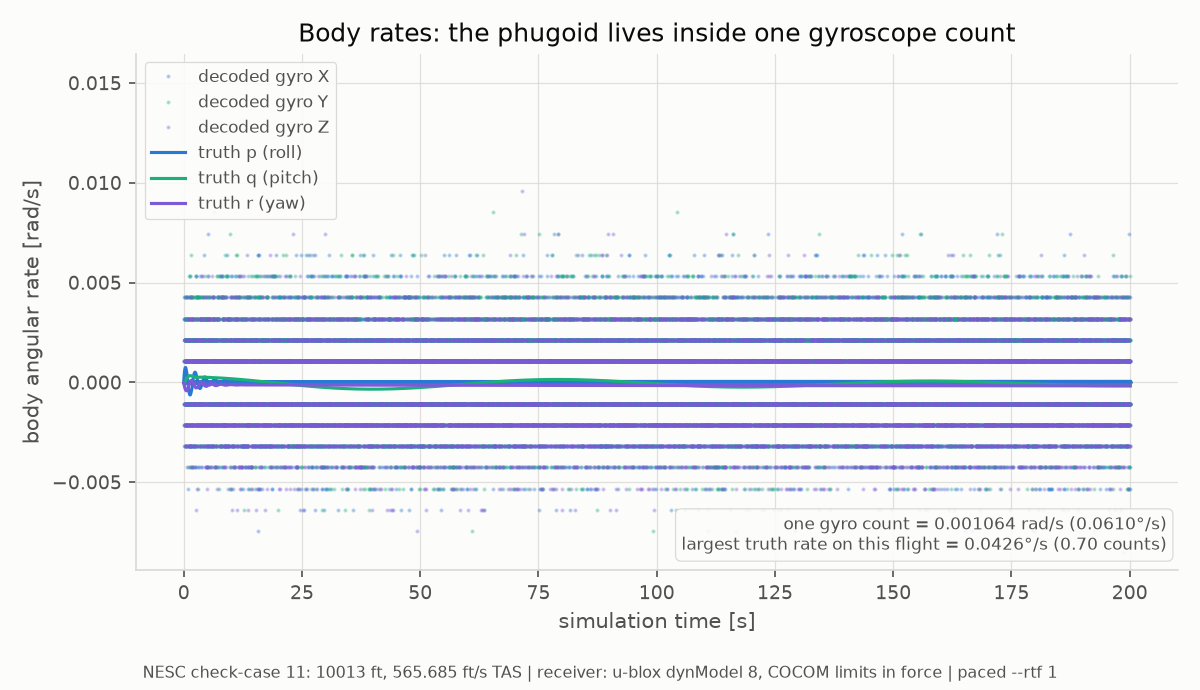
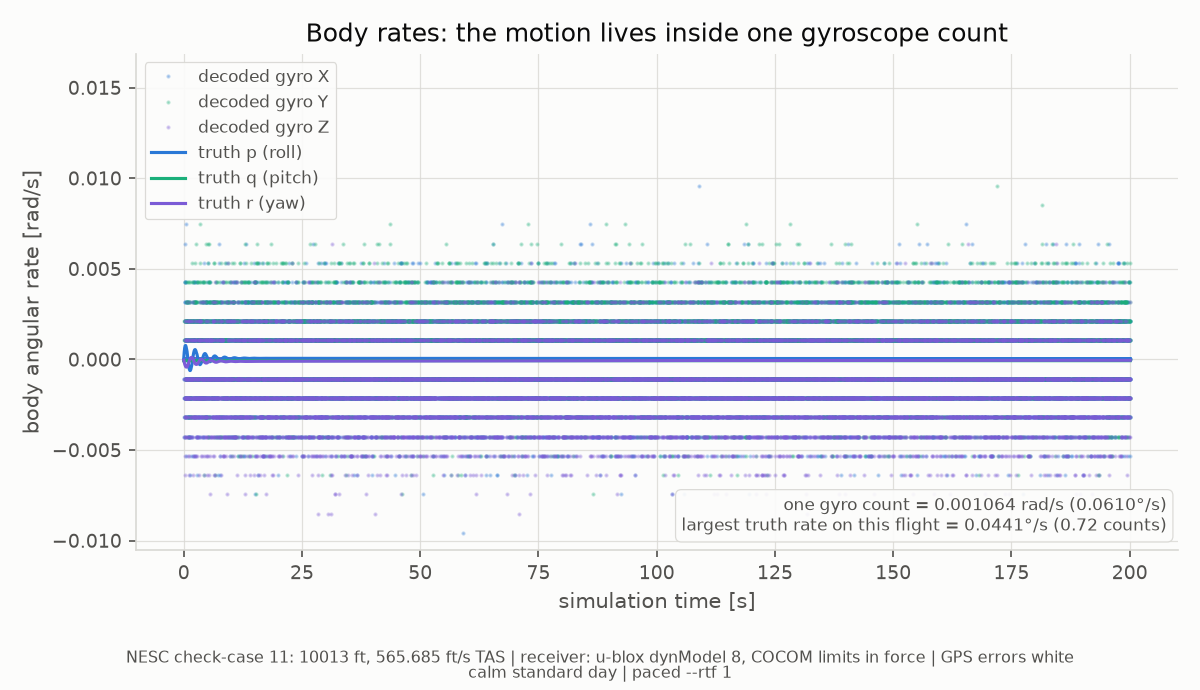
doc: the environment on the F-16 page, and every error term in sensor_models
Three figures for what Aetherion 0.16.0's environment changes, all from seeded
runs so they are comparable: with --seed the calm and turbulent runs carry the
same barometer turn-on bias (+3.58 m on both), and the difference between
their figures is the air rather than the draw. That comparability is what the
sensor seeds were for.

  turbulence W20 = 8 m/s   peak roll rate 0.7 gyro counts -> 47.4
  ISA + 20 K               barometer 195 m below truth, GNSS and radar on it
  10 m/s crosswind         GNSS course 2.28 deg off yaw, against 0.02 in calm

The first overturns this page's own headline finding -- "a filter cannot
integrate these rates, the signal is below the sensor's resolution" -- which
was always a statement about the air rather than about the part.

One correction to a figure already published. The magnetometer annotation
predicted the heading error from the hard iron's *magnitude*, which is only an
upper bound: heading comes from atan2(-Yh, Xh), so the offset's direction
relative to the field matters, and an offset lying along the field costs
almost no heading. It matched the draw this page shipped (5.5 predicted, 5.3
observed) and would have been badly wrong on another (2.9 against 0.24). It is
now first order in the components: 5.2 and 0.24 respectively.

sensor_models.rst gains the seeds and what they do and do not buy, the IMU's
bias walk (and why the increment is sigma sqrt(dt)), its scale factor and
[…]

diff --git a/examples/f16_trim_ecos/plot_results.py b/examples/f16_trim_ecos/plot_results.py
@@ -812,16 +812,44 @@ def plot_heading_consistency(truth, fixes, mag, gps_gaps, out: Path, prefix: str
             deltas = [value - interpolate(truth["time"], truth[f"b_{component}_ut"], t)
                       for t, value in zip(mag["sim_time_s"], mag[f"mag_{component}_ut"])]
             offsets.append(sum(deltas) / len(deltas))
+        # First order, not a magnitude bound. Heading comes from
+        # atan2(-Yh, Xh), so an offset perturbs it by
+        # (Yh dXh - Xh dYh) / (Xh^2 + Yh^2): the *direction* of the offset
+        # relative to the field matters, and an offset lying along the field
+        # costs almost no heading at all. Using |offset| instead gives an
+        # upper bound that happens to be close when the offset is roughly
+        # across the field and badly wrong when it is along it -- measured on
+        # two runs, the bound read 5.5 deg against 5.3 observed on one and
+        # 2.9 against 0.24 on the other, while this expression gives 5.2 and
+        # 0.24.
         horizontal_ut = math.hypot(*dipole_field_ned(truth["lat_deg"][0], truth["lon_deg"][0],
                                                      truth["alt_m"][0])[:2])
-        predicted_deg = math.degrees(math.atan2(math.hypot(offsets[0], offsets[1]), horizontal_ut))
+        errors_deg = []
+        for t in mag["sim_time_s"]:
+            roll = interpolate(truth["time"], truth["roll_rad"], t)
+            pitch = interpolate(truth["time"], truth["pitch_rad"], t)
+
+            def horizontal(bx, by, bz, roll=roll, pitch=pitch):
+                x = bx * math.cos(pitch) + by * math.sin(roll) * math.sin(pitch) + bz * math.cos(roll) * math.sin(pitch)
+                y = by * math.cos(roll) - bz * math.sin(roll)
+                return x, y
+
+            bx = interpolate(truth["time"], truth["b_x_ut"], t)
+            by = interpolate(truth["time"], truth["b_y_ut"], t)
+            bz = interpolate(truth["time"], truth["b_z_ut"], t)
+            x_h, y_h = horizontal(bx, by, bz)
+            x_off, y_off = horizontal(bx + offsets[0], by + offsets[1], bz + offsets[2])
+            denominator = x_h * x_h + y_h * y_h
+            if denominator > 0.0:
+                errors_deg.append(math.degrees((y_h * (x_off - x_h) - x_h * (y_off - y_h)) / denominator))
+        predicted_deg = (sum(errors_deg) / len(errors_deg)) if errors_deg else 0.0
         residuals = [wrap_180(h - interpolate(truth["time"], truth_yaw, t))
                      for t, h in zip(mag["sim_time_s"], mag_heading)]
         observed_deg = sum(residuals) / len(residuals)
         ax_err.annotate(
             f"hard iron measured from this run: {offsets[0]:+.2f} / {offsets[1]:+.2f} / {offsets[2]:+.2f} µT\n"
-            f"predicts {predicted_deg:.2f}° of heading error against a {horizontal_ut:.1f} µT "
-            f"horizontal field; observed {abs(observed_deg):.2f}°",
+            f"predicts {predicted_deg:+.2f}° of heading error against a {horizontal_ut:.1f} µT "
+            f"horizontal field; observed {observed_deg:+.2f}°",
             xy=(0.99, 0.06), xycoords="axes fraction", ha="right", fontsize=8, color=INK_2,
             bbox=ANNOTATION_CARD)
 

diff --git a/doc/f16_trim_ecos_cosim.rst b/doc/f16_trim_ecos_cosim.rst
@@ -518,6 +518,8 @@ Check-case 11: the cross-sensor reference
    counts, and the phugoid is plainly there, riding visibly through the
    discrete levels.
 
+.. _f16_trim_body_rates:
+
 .. figure:: _static/f16_trim_ecos/case11_imu_body_rates.png
    :width: 100%
    :alt: Decoded gyro samples lying on discrete horizontal bands roughly 0.001 rad/s apart, with the three truth rate traces running flat through the middle band
@@ -558,6 +560,97 @@ Check-case 11: the cross-sensor reference
    ``sim_02`` reaches t = 200 s; a verifier that compares nothing but the times
    every reference covers leaves the last 20 s silently unchecked and still
    prints OK.
+
+The environment, and what it changes
+------------------------------------
+
+Everything above is flown in dead calm air on a standard day. That is the
+check-case as published, and it is what every figure on this page is measured
+on — but it is not an atmosphere any aircraft has ever flown through, and
+three of this page's own findings are artefacts of it.
+
+Aetherion 0.16.0 gave the plant an environment: steady wind, Dryden turbulence
+and an ISA offset, all opt-in and all defaulting to the calm standard day.
+This example writes them from three flags, and the barometer takes the plant's
+own static pressure (``out.P_Pa``) rather than inverting the standard
+atmosphere from altitude, so a non-standard day reaches the sensor rather than
+stopping at the airframe:
+
+.. code-block:: console
+
+   $ ./f16_trim_cosim --seed 11 --turbulence 8 --turbulence-seed 1
+   $ ./f16_trim_cosim --seed 11 --atmosphere 20,0 --wind 0,10,0
+
+``--seed`` is what makes the three runs below comparable. Every sensor's error
+stream is then a function of that one number, so the calm and turbulent runs
+carry the *same* barometer turn-on bias (+3.58 m on both) and the difference
+between their figures is the air, not the draw. Before the sensor FMUs took a
+seed, two runs of the same scenario differed by metres of indicated altitude
+for no reason at all.
+
+.. figure:: _static/f16_trim_ecos/case11_turbulent_body_rates.png
+   :width: 100%
+   :alt: Decoded gyro samples tracking a dense, spiky roll-rate trace peaking near 0.05 rad/s, with truth traces running through them rather than through a single quantisation band
+
+   The same figure as :ref:`the calm one above <f16_trim_body_rates>`, in
+   light-to-moderate turbulence (MIL-F-8785C ``W20`` = 8 m/s). The calm flyout
+   puts every body rate inside **0.7 gyroscope counts**; this one peaks at
+   **47.4**, and the decoded stream becomes a measurement of the aircraft
+   instead of a picture of its own quantiser.
+
+   That is the finding this page reported — "a filter cannot integrate these
+   rates into an attitude, the signal is below the sensor's resolution" —
+   turned over by a factor of sixty-seven, and it was always a statement about
+   the *air* rather than about the part. A real aircraft in real air sees rate
+   content like this continuously; a filter tuned against the calm case would
+   be tuned against a vehicle that does not exist.
+
+   The part is unchanged and so is the seed: only ``--turbulence 8`` differs.
+   The remaining lever is the range the part is programmed to, which is the
+   next section.
+
+.. figure:: _static/f16_trim_ecos/case11_hotday_altitude.png
+   :width: 100%
+   :alt: Four altitude traces where the barometer sits 200 m below truth while GPS and radar height stay on it, and a residual panel showing a flat -195 m offset
+
+   A hot day: ISA + 20 K, nothing else changed. The barometer reads **195 m
+   low** for the whole flight while GNSS and the radar altimeter sit on truth.
+
+   Nothing is broken. Pressure altitude is not geometric altitude, and on a
+   warm day the two differ by hundreds of feet — which is precisely why a
+   barometer is *fused* with GNSS rather than trusted, and why the altitude
+   figure further up, where all four agreed to a metre, was quietly answering
+   an easier question than the one a filter faces. The plant re-trims at
+   α = 2.834° against 2.639° in the same condition on a standard day, because
+   the air really is thinner.
+
+   This is also the change that needed the barometer wired to ``out.P_Pa``:
+   with the part inverting the ISA from altitude it would have read the
+   standard day's pressure while the aircraft flew through a warmer one,
+   and this figure would show nothing at all.
+
+.. figure:: _static/f16_trim_ecos/case11_crosswind_heading.png
+   :width: 100%
+   :alt: GPS course sitting about two degrees above truth yaw across the whole flight, with magnetic heading tracking yaw closely
+
+   A 10 m/s crosswind. GNSS course now sits **+2.28°** from truth yaw, where
+   in calm air it sat on it to 0.02°: the aircraft is crabbing, and course
+   over ground is no longer where the nose points. The geometry checks —
+   10 m/s of air across a 45° heading is 7.07 m/s of crosswind on 172 m/s of
+   airspeed, or 2.36°.
+
+   That gap is a state a filter can estimate, and in calm air it does not
+   exist to be estimated. The magnetometer, meanwhile, still reports yaw:
+   this figure's two residual traces are now measuring *different physical
+   things*, which the calm version could not show because they coincided.
+
+   The magnetometer's own residual is small here (+0.24°) for a reason worth
+   naming: with ``--seed 11`` the hard iron drawn for this run is
+   +0.78 / −0.78 / −2.08 µT, which lies nearly along the local field, and an
+   offset parallel to the field costs almost no heading. The annotation's
+   prediction is first order in the offset's *components* rather than its
+   magnitude, which is what makes it land on 0.24° here and on 5.2° for the
+   larger, cross-field draw this page shipped earlier.
 
 Check-case 12: three stacks outside their envelopes
 ~~~~~~~~~~~~~~~~~~~~~~~~~~~~~~~~~~~~~~~~~~~~~~~~~~~

diff --git a/doc/sensor_models.rst b/doc/sensor_models.rst
@@ -160,32 +160,73 @@ where
 
 * :math:`b` is a **turn-on bias**, drawn *once per run* at model
   construction (per axis/channel) — the run-to-run constant offset a real
-  part exhibits after power-up;
+  part exhibits after power-up. On the IMU it can also *wander*: a non-zero
+  ``*_bias_walk_*`` drives it as a random walk whose increment is
+  :math:`\sigma\sqrt{\Delta t}`, so the drift after a given elapsed time does
+  not depend on how often the part was sampled. A constant bias converges
+  once in a filter and stops mattering, which is not what a bias state is
+  for;
 * :math:`w[k]` is **white measurement noise**, drawn per sample;
 * :math:`S` is the register sensitivity (LSB per physical unit), configured
   identically to what the consuming driver passes to
   ``convert_raw_to_si()`` — scale is *not* part of the wire format, exactly
-  as on real silicon;
+  as on real silicon. ``ImuRange`` names the pairings (250, 500 or
+  2000 deg/s) so the two ends of a co-simulation cannot disagree about it:
+  the examples take ``--imu-range`` on both the host and the flight computer,
+  and a mismatch is silent and wrong by a constant factor. At ±2000 deg/s one
+  count is 0.061 deg/s and every body rate on the calm F-16 flyout falls
+  inside it; at ±250 it is 0.0076 deg/s;
 * :math:`\operatorname{sat}(\cdot)` saturates at the register's full-scale
   range (int16 for IMU/mag, 24-bit words for baro/radalt) the way real
   silicon clips, rather than wrapping.
 
 Setting any :math:`\sigma` to zero disables that term cleanly (the models
 never construct a ``std::normal_distribution`` with zero stddev, which would
-be undefined behavior).
+be undefined behavior), and a disabled term draws nothing at all — which is
+what lets every one of these be added without moving an existing seeded run.
+
+Two further IMU errors are invisible at rest and proportional to the signal: a
+per-axis **scale-factor** error and a small-angle **misalignment** between the
+triad and the airframe, both drawn once per run. They show up only under
+manoeuvre, which is where the 13.x closed-loop cases exercise a filter. The
+magnetometer likewise adds **soft iron** — a symmetric matrix distorting the
+ambient field, as against the hard iron that adds to it. The distinction is
+the driver's problem, not the model's: hard iron alone makes an in-flight
+calibration a three-parameter offset fit, while soft iron is what makes a real
+one an ellipsoid fit, so a driver solving only for the centre looks finished
+against a model without this term and fails on hardware.
 
 **Reproducibility.** Every model constructor takes an RNG seed, defaulting
 to a nondeterministic ``std::random_device`` draw. Pass a fixed seed for
 bit-identical runs; the turn-on biases are drawn from that same stream at
-construction, so seed + config fully determine the output sequence. The GPS
-FMU exposes its seed as a parameter (``seed``, and the examples'
-``--gps-seed``); the other FMUs do not yet, and every run of them is a fresh
-part.
+construction, so seed + config fully determine the output sequence.
+
+**Every** sensor FMU exposes that seed and its error terms as FMI parameters:
+``seed`` (0 = nondeterministic) plus one fixed real per sigma, read once when
+initialisation mode is exited, with start values equal to the model's own
+defaults. The examples' ``--seed`` sets all of them from one number, deriving
+a distinct stream per part so they are reproducible without being correlated.
+
+What that buys is worth stating exactly: the sample a part produces at a given
+simulation time becomes identical run to run. It does *not* make a two-process
+co-simulation diff-identical, because the flight computer polls the I2C parts
+and drains the IMU FIFO on its own wall clock, so which samples it catches
+still varies. Statistics reproduce; a ``diff`` of the sensor logs does not.
 
 GPS receiver model
 ------------------
 
 :file: ``modules/sensors/include/Hemerion/gps/fmu/gpsNoiseModel.hpp``
+
+The **barometer** takes the ambient it is actually in, rather than inverting
+the standard atmosphere from an altitude: writing ``p_Pa`` (and optionally
+``T_degC``) switches the BMP390 FMU off the ISA path for the rest of the run,
+and all three examples connect the plant's own ``out.P_Pa`` and ``out.T_K``.
+On a standard day this is a small correction — the plants integrate US1976
+while the part inverted ICAO ISA, and the two differ by 13 Pa at 3 km, a
+systematic 1.46 m of indicated altitude. On a non-standard day it is the whole
+difference between a barometer that reads the book and one that reads the air:
+:ref:`f16_trim_ecos_cosim` shows a 195 m offset on ISA + 20 K.
 
 ``GpsNoiseModel`` perturbs the truth trajectory at the *fix* level — a
 receiver outputs a navigation solution, not register counts — producing a

diff --git a/TODO.md b/TODO.md
@@ -247,6 +247,27 @@ turbulence, a non-standard atmosphere — is Aetherion's and is written up as
   flight computer. This is what forces delayed-measurement handling in the filter, and it is
   the one item here that also changes the flight software.
 
+* **Done since (2026-09-25/26).** Aetherion 0.16.0's environment is consumed (PR #40): `--wind`,
+  `--turbulence`, `--atmosphere` on the F-16 hosts, the barometer driven by the plant's `out.P_Pa`,
+  version floor 0.16.0 by port test. Every sensor FMU now exposes a seed and its error terms as FMI
+  parameters, with `--seed` setting all five from one number (item 6 of the groundwork). The
+  examples got their first tests: `examples.environment` covers the shared host logic in CI, which
+  cannot run a co-simulation at all since it has no Aetherion. IMU bias random walk, scale factor
+  and misalignment (2b); `--imu-range` with a named sensitivity table (2a); magnetometer soft iron
+  (3b, first half).
+
+  Three numbers worth keeping: turbulence at W20 = 8 m/s takes the case-11 peak roll rate from
+  **0.7 gyro counts to 47.4**, overturning this section's headline finding; ISA + 20 K puts the
+  barometer **195 m** below truth while GNSS and radar hold it; a 10 m/s crosswind opens **2.28°**
+  between GNSS course and yaw. All three were invisible in calm, standard-day air.
+
+* **Still open in 3b:** the field model is still a centred dipole, whose declination at Kitty Hawk
+  is +0.69° against the real field's ≈ −11°. WMM/IGRF needs an authoritative coefficient set — it
+  must not be transcribed from memory, for the reason Aetherion refused to transcribe MIL-F-8785C's
+  exceedance chart. `geomagnetic_field.hpp` is still duplicated between the rocket and F-16
+  examples and should become one module header when that lands. The driver's calibration still
+  solves only the hard-iron offset, so soft iron is modelled but not yet estimated.
+
 * **Where to start:** correlated GPS (Hemerion) and turbulence + wind (Aetherion) in parallel —
   together they change what the EKF is tuned against more than everything else combined. Then
   IMU bias walk and the barometer stopgap. The rest as the filter grows the states that need

diff --git a/examples/f16_trim_ecos/README.md b/examples/f16_trim_ecos/README.md
@@ -104,6 +104,12 @@ Two terminals, both in `build/examples-native/examples/f16_trim_ecos/`:
 ./f16_trim_cosim              # check-case 11 (default)
 ./f16_trim_cosim --case 12    # check-case 12; add --dyn-model -1 to give the receiver its fix back
 ./f16_trim_cosim --gps-errors correlated --gps-seed 1 --stop 1000   # the realistic receiver, seeded,
+./f16_trim_cosim --seed 11 --turbulence 8 --turbulence-seed 1   # light-to-moderate turbulence:
+                              # peak roll rate goes from 0.7 gyro counts to 47
+./f16_trim_cosim --seed 11 --atmosphere 20,0 --wind 0,10,0     # ISA+20 K and a 10 m/s crosswind:
+                              # the barometer reads 195 m low, GPS course crabs 2.3 deg off yaw
+./f16_trim_cosim --imu-range 250   # an aircraft-appropriate gyro range; pass the same to
+                              # f16_flight_computer -- sensitivity is not on the wire
                               # over a window long enough to show its 100 s correlation time
 ```
 
